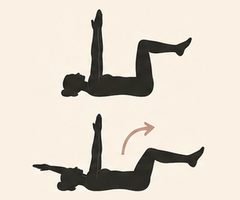
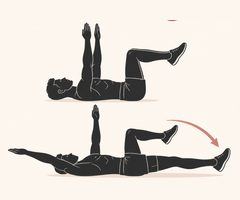
Øvelsesbank: nye bilder for beinpress, leg curl, pull-ups og dead bug
Claude-Session: https://claude.ai/code/session_01AskgJg6Kkd8mdVzJkkPLJh

Changed region(s): [[0.0292, 0.03, 0.9625, 0.96], [0.7, 0.87, 0.7292, 0.9], [0.7, 0.09, 0.7292, 0.12]]

diff --git a/ovelsesbank.html b/ovelsesbank.html
@@ -385,6 +385,8 @@
   .sources { margin: 0; padding-left: 1.1rem; font-size: 0.9rem; }
   .sources li { margin: 0 0 0.6rem; }
 
+  .card a:not([class]) { color: var(--accent-dark); font-weight: 600; }
+
 
   .bank-intro ol { margin: 0 0 0.75rem; padding-left: 1.25rem; }
   .bank-intro ol li { margin: 0 0 0.5rem; }
@@ -395,7 +397,9 @@
   .group .about-body > p.muscles { margin: 0 0 0.75rem; color: var(--muted); font-size: 0.92rem; }
   .group .exercises { margin-bottom: 0; }
 
-  .exercises li.no-img { grid-template-columns: 1fr; padding-left: 0.9rem; }
+  .exercises li.no-img,
+  .bank[data-show="gym"] .exercises li.no-img-gym,
+  .bank[data-show="home"] .exercises li.no-img-home { grid-template-columns: 1fr; padding-left: 0.9rem; }
 
   .bank[data-show="gym"] .v-home,
   .bank[data-show="home"] .v-gym { display: none; }
@@ -467,9 +471,9 @@
         <div class="about-body">
           <p class="muscles">Forside lår og sete</p>
           <ul class="exercises">
-          <li><a class="thumb-link" href="images/ukeplan-kneboy-stor.jpg" aria-label="Se større bilde: Knebøy"><img class="thumb v-gym" src="images/ukeplan-kneboy-senter.jpg" width="120" height="100" loading="lazy" alt="Knebøy på treningssenter: illustrasjon med silhuetter."><img class="thumb v-home" src="images/ukeplan-kneboy-hjemme.jpg" width="120" height="100" loading="lazy" alt="Knebøy hjemme: illustrasjon med silhuetter."></a><span class="v-gym">Knebøy med stang<span class="how">Stanga på øvre del av ryggen. Sett deg ned og litt bakover, knærne følger tærne.</span></span><span class="v-home">Knebøy med manual eller kettlebell<span class="how">Hold vekten foran brystet (goblet-knebøy), gjerne ned mot en stol.</span></span></li>
-          <li><a class="thumb-link" href="images/ukeplan-mann-beinpress-stor.jpg" aria-label="Se større bilde: Beinpress"><img class="thumb v-gym" src="images/ukeplan-mann-beinpress-senter.jpg" width="120" height="100" loading="lazy" alt="Beinpress på treningssenter: illustrasjon med silhuetter."><img class="thumb v-home" src="images/ukeplan-mann-beinpress-hjemme.jpg" width="120" height="100" loading="lazy" alt="Beinpress hjemme: illustrasjon med silhuetter."></a><span class="v-gym">Beinpress<span class="how">Senk kontrollert til knærne er rundt 90 grader, og press opp uten å låse knærne.</span></span><span class="v-home">Knebøy til stol på ett bein<span class="how">Sett deg rolig ned på stolen og reis deg på ett bein. Start på to bein med en kettlebell, som på bildet.</span></span></li>
-          <li><a class="thumb-link" href="images/ukeplan-enbens-stor.jpg" aria-label="Se større bilde: Utfall og step-up"><img class="thumb v-gym" src="images/ukeplan-enbens-senter.jpg" width="120" height="100" loading="lazy" alt="Utfall og step-up på treningssenter: illustrasjon med silhuetter."><img class="thumb v-home" src="images/ukeplan-enbens-hjemme.jpg" width="120" height="100" loading="lazy" alt="Utfall og step-up hjemme: illustrasjon med silhuetter."></a><span class="v-gym">Utfall med manualer<span class="how">Ta et steg fram eller bak, og senk bakre kne rolig mot gulvet.</span></span><span class="v-home">Step-up eller utfall bakover<span class="how">På et trappetrinn eller en stødig stol, gjerne med manualer.</span></span></li>
+          <li><a class="thumb-link v-gym" href="images/ukeplan-kneboy-stor.jpg" aria-label="Se større bilde: Knebøy på treningssenter"><img class="thumb" src="images/ukeplan-kneboy-senter.jpg" width="120" height="100" loading="lazy" alt="Knebøy på treningssenter: illustrasjon med silhuetter."></a><a class="thumb-link v-home" href="images/ukeplan-kneboy-stor.jpg" aria-label="Se større bilde: Knebøy hjemme"><img class="thumb" src="images/ukeplan-kneboy-hjemme.jpg" width="120" height="100" loading="lazy" alt="Knebøy hjemme: illustrasjon med silhuetter."></a><span class="v-gym">Knebøy med stang<span class="how">Stanga på øvre del av ryggen. Sett deg ned og litt bakover, knærne følger tærne.</span></span><span class="v-home">Knebøy med manual eller kettlebell<span class="how">Hold vekten foran brystet (goblet-knebøy), gjerne ned mot en stol.</span></span></li>
+          <li><a class="thumb-link v-gym" href="images/bank-beinpress-stor.jpg" aria-label="Se større bilde: Beinpress på treningssenter"><img class="thumb" src="images/bank-beinpress.jpg" width="120" height="100" loading="lazy" alt="Beinpress på treningssenter: illustrasjon med silhuetter."></a><a class="thumb-link v-home" href="images/ukeplan-mann-beinpress-stor.jpg" aria-label="Se større bilde: Beinpress hjemme"><img class="thumb" src="images/ukeplan-mann-beinpress-hjemme.jpg" width="120" height="100" loading="lazy" alt="Beinpress hjemme: illustrasjon med silhuetter."></a><span class="v-gym">Beinpress<span class="how">Senk kontrollert til knærne er rundt 90 grader, og press opp uten å låse knærne.</span></span><span class="v-home">Knebøy til stol på ett bein<span class="how">Sett deg rolig ned på stolen og reis deg på ett bein. Start på to bein med en kettlebell, som på bildet.</span></span></li>
+          <li><a class="thumb-link v-gym" href="images/ukeplan-enbens-stor.jpg" aria-label="Se større bilde: Utfall og step-up på treningssenter"><img class="thumb" src="images/ukeplan-enbens-senter.jpg" width="120" height="100" loading="lazy" alt="Utfall og step-up på treningssenter: illustrasjon med silhuetter."></a><a class="thumb-link v-home" href="images/ukeplan-enbens-stor.jpg" aria-label="Se større bilde: Utfall og step-up hjemme"><img class="thumb" src="images/ukeplan-enbens-hjemme.jpg" width="120" height="100" loading="lazy" alt="Utfall og step-up hjemme: illustrasjon med silhuetter."></a><span class="v-gym">Utfall med manualer<span class="how">Ta et steg fram eller bak, og senk bakre kne rolig mot gulvet.</span></span><span class="v-home">Step-up eller utfall bakover<span class="how">På et trappetrinn eller en stødig stol, gjerne med manualer.</span></span></li>
           <li class="no-img"><span class="v-gym">Bulgarsk utfall<span class="how">Bakre fot på en benk, senk deg rett ned. Krevende, og gir mye effekt med lette vekter.</span></span><span class="v-home">Bulgarsk utfall<span class="how">Bakre fot på en stol, senk deg rett ned. Krevende, og gir mye effekt med lette vekter.</span></span></li>
           </ul>
         </div>
@@ -479,9 +483,9 @@
         <div class="about-body">
           <p class="muscles">Bakside lår og sete</p>
           <ul class="exercises">
-          <li><a class="thumb-link" href="images/ukeplan-markloft-stor.jpg" aria-label="Se større bilde: Rumensk markløft"><img class="thumb v-gym" src="images/ukeplan-markloft-senter.jpg" width="120" height="100" loading="lazy" alt="Rumensk markløft på treningssenter: illustrasjon med silhuetter."><img class="thumb v-home" src="images/ukeplan-markloft-hjemme.jpg" width="120" height="100" loading="lazy" alt="Rumensk markløft hjemme: illustrasjon med silhuetter."></a><span class="v-gym">Rumensk markløft med stang<span class="how">Skyv hoftene bakover med nesten strake bein og rett rygg. Hold stanga tett inntil beina.</span></span><span class="v-home">Rumensk markløft med manualer<span class="how">For mer: markløft på ett bein.</span></span></li>
-          <li><a class="thumb-link" href="images/ukeplan-hipthrust-stor.jpg" aria-label="Se større bilde: Hip thrust og seteløft"><img class="thumb v-gym" src="images/ukeplan-hipthrust-senter.jpg" width="120" height="100" loading="lazy" alt="Hip thrust og seteløft på treningssenter: illustrasjon med silhuetter."><img class="thumb v-home" src="images/ukeplan-hipthrust-hjemme.jpg" width="120" height="100" loading="lazy" alt="Hip thrust og seteløft hjemme: illustrasjon med silhuetter."></a><span class="v-gym">Hip thrust<span class="how">Ryggen mot en benk og stang over hoftene. Klem setet på toppen.</span></span><span class="v-home">Seteløft<span class="how">På gulvet eller med skuldrene mot sofaen, gjerne med en manual på hoftene.</span></span></li>
-          <li class="no-img"><span class="v-gym">Leg curl i apparat<span class="how">Bøy knærne kontrollert, og senk sakte.</span></span><span class="v-home">Leg curl på håndkle<span class="how">Ligg på ryggen med hælene på et håndkle på glatt gulv. Løft hoftene og dra hælene inn mot setet.</span></span></li>
+          <li><a class="thumb-link v-gym" href="images/ukeplan-markloft-stor.jpg" aria-label="Se større bilde: Rumensk markløft på treningssenter"><img class="thumb" src="images/ukeplan-markloft-senter.jpg" width="120" height="100" loading="lazy" alt="Rumensk markløft på treningssenter: illustrasjon med silhuetter."></a><a class="thumb-link v-home" href="images/ukeplan-markloft-stor.jpg" aria-label="Se større bilde: Rumensk markløft hjemme"><img class="thumb" src="images/ukeplan-markloft-hjemme.jpg" width="120" height="100" loading="lazy" alt="Rumensk markløft hjemme: illustrasjon med silhuetter."></a><span class="v-gym">Rumensk markløft med stang<span class="how">Skyv hoftene bakover med nesten strake bein og rett rygg. Hold stanga tett inntil beina.</span></span><span class="v-home">Rumensk markløft med manualer<span class="how">For mer: markløft på ett bein.</span></span></li>
+          <li><a class="thumb-link v-gym" href="images/ukeplan-hipthrust-stor.jpg" aria-label="Se større bilde: Hip thrust og seteløft på treningssenter"><img class="thumb" src="images/ukeplan-hipthrust-senter.jpg" width="120" height="100" loading="lazy" alt="Hip thrust og seteløft på treningssenter: illustrasjon med silhuetter."></a><a class="thumb-link v-home" href="images/ukeplan-hipthrust-stor.jpg" aria-label="Se større bilde: Hip thrust og seteløft hjemme"><img class="thumb" src="images/ukeplan-hipthrust-hjemme.jpg" width="120" height="100" loading="lazy" alt="Hip thrust og seteløft hjemme: illustrasjon med silhuetter."></a><span class="v-gym">Hip thrust<span class="how">Ryggen mot en benk og stang over hoftene. Klem setet på toppen.</span></span><span class="v-home">Seteløft<span class="how">På gulvet eller med skuldrene mot sofaen, gjerne med en manual på hoftene.</span></span></li>
+          <li class="no-img-home"><a class="thumb-link v-gym" href="images/bank-legcurl-stor.jpg" aria-label="Se større bilde: Leg curl på treningssenter"><img class="thumb" src="images/bank-legcurl.jpg" width="120" height="100" loading="lazy" alt="Leg curl på treningssenter: illustrasjon med silhuetter."></a><span class="v-gym">Leg curl i apparat<span class="how">Bøy knærne kontrollert, og senk sakte.</span></span><span class="v-home">Leg curl på håndkle<span class="how">Ligg på ryggen med hælene på et håndkle på glatt gulv. Løft hoftene og dra hælene inn mot setet.</span></span></li>
           </ul>
         </div>
       </details>
@@ -490,7 +494,7 @@
         <div class="about-body">
           <p class="muscles">Bryst, forside skuldre og bakside armer</p>
           <ul class="exercises">
-          <li><a class="thumb-link" href="images/ukeplan-bryst-stor.jpg" aria-label="Se større bilde: Brystpress og push-ups"><img class="thumb v-gym" src="images/ukeplan-bryst-senter.jpg" width="120" height="100" loading="lazy" alt="Brystpress og push-ups på treningssenter: illustrasjon med silhuetter."><img class="thumb v-home" src="images/ukeplan-bryst-hjemme.jpg" width="120" height="100" loading="lazy" alt="Brystpress og push-ups hjemme: illustrasjon med silhuetter."></a><span class="v-gym">Benkpress eller brystpress med manualer<span class="how">Senk kontrollert mot brystet, med albuene litt inn mot kroppen.</span></span><span class="v-home">Push-ups<span class="how">Mot kjøkkenbenken, på knærne eller på gulvet. Eller brystpress med manualer liggende på gulvet.</span></span></li>
+          <li><a class="thumb-link v-gym" href="images/ukeplan-bryst-stor.jpg" aria-label="Se større bilde: Brystpress og push-ups på treningssenter"><img class="thumb" src="images/ukeplan-bryst-senter.jpg" width="120" height="100" loading="lazy" alt="Brystpress og push-ups på treningssenter: illustrasjon med silhuetter."></a><a class="thumb-link v-home" href="images/ukeplan-bryst-stor.jpg" aria-label="Se større bilde: Brystpress og push-ups hjemme"><img class="thumb" src="images/ukeplan-bryst-hjemme.jpg" width="120" height="100" loading="lazy" alt="Brystpress og push-ups hjemme: illustrasjon med silhuetter."></a><span class="v-gym">Benkpress eller brystpress med manualer<span class="how">Senk kontrollert mot brystet, med albuene litt inn mot kroppen.</span></span><span class="v-home">Push-ups<span class="how">Mot kjøkkenbenken, på knærne eller på gulvet. Eller brystpress med manualer liggende på gulvet.</span></span></li>
           <li class="no-img"><span class="v-gym">Skrå brystpress med manualer<span class="how">Benken på 30–45 grader.</span></span><span class="v-home">Push-ups med føttene på en stol<span class="how">En tyngre variant når vanlige push-ups blir lette.</span></span></li>
           </ul>
         </div>
@@ -500,7 +504,7 @@
         <div class="about-body">
           <p class="muscles">Skuldre</p>
           <ul class="exercises">
-          <li><a class="thumb-link" href="images/ukeplan-skulderpress-stor.jpg" aria-label="Se større bilde: Skulderpress"><img class="thumb v-gym" src="images/ukeplan-skulderpress-senter.jpg" width="120" height="100" loading="lazy" alt="Skulderpress på treningssenter: illustrasjon med silhuetter."><img class="thumb v-home" src="images/ukeplan-skulderpress-hjemme.jpg" width="120" height="100" loading="lazy" alt="Skulderpress hjemme: illustrasjon med silhuetter."></a><span class="v-gym">Skulderpress med manualer<span class="how">Sittende eller stående. Hold magen lett aktiv og unngå å svaie i korsryggen.</span></span><span class="v-home">Skulderpress med manualer eller strikk<span class="how">Stående eller sittende.</span></span></li>
+          <li><a class="thumb-link v-gym" href="images/ukeplan-skulderpress-stor.jpg" aria-label="Se større bilde: Skulderpress på treningssenter"><img class="thumb" src="images/ukeplan-skulderpress-senter.jpg" width="120" height="100" loading="lazy" alt="Skulderpress på treningssenter: illustrasjon med silhuetter."></a><a class="thumb-link v-home" href="images/ukeplan-skulderpress-stor.jpg" aria-label="Se større bilde: Skulderpress hjemme"><img class="thumb" src="images/ukeplan-skulderpress-hjemme.jpg" width="120" height="100" loading="lazy" alt="Skulderpress hjemme: illustrasjon med silhuetter."></a><span class="v-gym">Skulderpress med manualer<span class="how">Sittende eller stående. Hold magen lett aktiv og unngå å svaie i korsryggen.</span></span><span class="v-home">Skulderpress med manualer eller strikk<span class="how">Stående eller sittende.</span></span></li>
           <li class="no-img"><span class="v-gym">Sidehev<span class="how">Med lette manualer eller i kabel. Løft armene ut til siden til skulderhøyde.</span></span><span class="v-home">Sidehev<span class="how">Med lette manualer eller strikk. Løft armene ut til siden til skulderhøyde.</span></span></li>
           </ul>
         </div>
@@ -510,7 +514,7 @@
         <div class="about-body">
           <p class="muscles">Øvre del av ryggen</p>
           <ul class="exercises">
-          <li><a class="thumb-link" href="images/ukeplan-roing-stor.jpg" aria-label="Se større bilde: Roing"><img class="thumb v-gym" src="images/ukeplan-roing-senter.jpg" width="120" height="100" loading="lazy" alt="Roing på treningssenter: illustrasjon med silhuetter."><img class="thumb v-home" src="images/ukeplan-roing-hjemme.jpg" width="120" height="100" loading="lazy" alt="Roing hjemme: illustrasjon med silhuetter."></a><span class="v-gym">Sittende roing i kabel<span class="how">Trekk albuene bakover og skulderbladene mot hverandre.</span></span><span class="v-home">Roing med manual<span class="how">Én arm av gangen med støtte på en stol.</span></span></li>
+          <li><a class="thumb-link v-gym" href="images/ukeplan-roing-stor.jpg" aria-label="Se større bilde: Roing på treningssenter"><img class="thumb" src="images/ukeplan-roing-senter.jpg" width="120" height="100" loading="lazy" alt="Roing på treningssenter: illustrasjon med silhuetter."></a><a class="thumb-link v-home" href="images/ukeplan-roing-stor.jpg" aria-label="Se større bilde: Roing hjemme"><img class="thumb" src="images/ukeplan-roing-hjemme.jpg" width="120" height="100" loading="lazy" alt="Roing hjemme: illustrasjon med silhuetter."></a><span class="v-gym">Sittende roing i kabel<span class="how">Trekk albuene bakover og skulderbladene mot hverandre.</span></span><span class="v-home">Roing med manual<span class="how">Én arm av gangen med støtte på en stol.</span></span></li>
           <li class="no-img"><span class="v-gym">Foroverbøyd roing med stang<span class="how">Bøy i hoftene med rett rygg, og trekk stanga mot navlen.</span></span><span class="v-home">Roing med strikk<span class="how">Strikket festet i døra eller rundt føttene.</span></span></li>
           </ul>
         </div>
@@ -520,8 +524,8 @@
         <div class="about-body">
           <p class="muscles">Rygg og forside armer</p>
           <ul class="exercises">
-          <li><a class="thumb-link" href="images/ukeplan-nedtrekk-stor.jpg" aria-label="Se større bilde: Nedtrekk"><img class="thumb v-gym" src="images/ukeplan-nedtrekk-senter.jpg" width="120" height="100" loading="lazy" alt="Nedtrekk på treningssenter: illustrasjon med silhuetter."><img class="thumb v-home" src="images/ukeplan-nedtrekk-hjemme.jpg" width="120" height="100" loading="lazy" alt="Nedtrekk hjemme: illustrasjon med silhuetter."></a><span class="v-gym">Nedtrekk<span class="how">Trekk stanga ned mot øvre del av brystet.</span></span><span class="v-home">Nedtrekk med strikk<span class="how">Strikket festet øverst i døra.</span></span></li>
-          <li><a class="thumb-link" href="images/ukeplan-mann-pullups-stor.jpg" aria-label="Se større bilde: Pull-ups"><img class="thumb v-gym" src="images/ukeplan-mann-pullups-senter.jpg" width="120" height="100" loading="lazy" alt="Pull-ups på treningssenter: illustrasjon med silhuetter."><img class="thumb v-home" src="images/ukeplan-mann-pullups-hjemme.jpg" width="120" height="100" loading="lazy" alt="Pull-ups hjemme: illustrasjon med silhuetter."></a><span class="v-gym">Pull-ups<span class="how">Med strikk eller i apparat for hjelp hvis det er for tungt.</span></span><span class="v-home">Pull-ups i dørstang<span class="how">Start med å henge, eller senk deg sakte ned fra toppen.</span></span></li>
+          <li><a class="thumb-link v-gym" href="images/ukeplan-nedtrekk-stor.jpg" aria-label="Se større bilde: Nedtrekk på treningssenter"><img class="thumb" src="images/ukeplan-nedtrekk-senter.jpg" width="120" height="100" loading="lazy" alt="Nedtrekk på treningssenter: illustrasjon med silhuetter."></a><a class="thumb-link v-home" href="images/ukeplan-nedtrekk-stor.jpg" aria-label="Se større bilde: Nedtrekk hjemme"><img class="thumb" src="images/ukeplan-nedtrekk-hjemme.jpg" width="120" height="100" loading="lazy" alt="Nedtrekk hjemme: illustrasjon med silhuetter."></a><span class="v-gym">Nedtrekk<span class="how">Trekk stanga ned mot øvre del av brystet.</span></span><span class="v-home">Nedtrekk med strikk<span class="how">Strikket festet øverst i døra.</span></span></li>
+          <li><a class="thumb-link v-gym" href="images/bank-pullups-stor.jpg" aria-label="Se større bilde: Pull-ups på treningssenter"><img class="thumb" src="images/bank-pullups.jpg" width="120" height="100" loading="lazy" alt="Pull-ups på treningssenter: illustrasjon med silhuetter."></a><a class="thumb-link v-home" href="images/ukeplan-mann-pullups-stor.jpg" aria-label="Se større bilde: Pull-ups hjemme"><img class="thumb" src="images/ukeplan-mann-pullups-hjemme.jpg" width="120" height="100" loading="lazy" alt="Pull-ups hjemme: illustrasjon med silhuetter."></a><span class="v-gym">Pull-ups<span class="how">Med strikk eller i apparat for hjelp hvis det er for tungt.</span></span><span class="v-home">Pull-ups i dørstang<span class="how">Start med å henge, eller senk deg sakte ned fra toppen.</span></span></li>
           </ul>
         </div>
       </details>
@@ -530,11 +534,11 @@
         <div class="about-body">
           <p class="muscles">Mage, rygg og grep</p>
           <ul class="exercises">
-          <li><a class="thumb-link" href="images/ukeplan-planke-stor.jpg" aria-label="Se større bilde: Planke"><img class="thumb v-gym" src="images/ukeplan-planke-senter.jpg" width="120" height="100" loading="lazy" alt="Planke på treningssenter: illustrasjon med silhuetter."><img class="thumb v-home" src="images/ukeplan-planke-hjemme.jpg" width="120" height="100" loading="lazy" alt="Planke hjemme: illustrasjon med silhuetter."></a><span>Planke<span class="how">På knærne eller med strake bein. Rett linje fra hode til knær eller hæler.</span></span></li>
-          <li><a class="thumb-link" href="images/ukeplan-sideplanke-stor.jpg" aria-label="Se større bilde: Sideplanke"><img class="thumb v-gym" src="images/ukeplan-sideplanke-senter.jpg" width="120" height="100" loading="lazy" alt="Sideplanke på treningssenter: illustrasjon med silhuetter."><img class="thumb v-home" src="images/ukeplan-sideplanke-hjemme.jpg" width="120" height="100" loading="lazy" alt="Sideplanke hjemme: illustrasjon med silhuetter."></a><span>Sideplanke<span class="how">Start på knærne. For mer: strake bein.</span></span></li>
-          <li><a class="thumb-link" href="images/styrke-15-5-deadbug.jpg" aria-label="Se større bilde: Dead bug"><img class="thumb" src="images/bank-deadbug.jpg" width="120" height="100" loading="lazy" alt="Dead bug: illustrasjon med silhuetter."></a><span>Dead bug<span class="how">Ligg på ryggen og senk motsatt arm og bein rolig. Korsryggen skal ligge mot gulvet.</span></span></li>
+          <li><a class="thumb-link v-gym" href="images/ukeplan-planke-stor.jpg" aria-label="Se større bilde: Planke på treningssenter"><img class="thumb" src="images/ukeplan-planke-senter.jpg" width="120" height="100" loading="lazy" alt="Planke på treningssenter: illustrasjon med silhuetter."></a><a class="thumb-link v-home" href="images/ukeplan-planke-stor.jpg" aria-label="Se større bilde: Planke hjemme"><img class="thumb" src="images/ukeplan-planke-hjemme.jpg" width="120" height="100" loading="lazy" alt="Planke hjemme: illustrasjon med silhuetter."></a><span>Planke<span class="how">På knærne eller med strake bein. Rett linje fra hode til knær eller hæler.</span></span></li>
+          <li><a class="thumb-link v-gym" href="images/ukeplan-sideplanke-stor.jpg" aria-label="Se større bilde: Sideplanke på treningssenter"><img class="thumb" src="images/ukeplan-sideplanke-senter.jpg" width="120" height="100" loading="lazy" alt="Sideplanke på treningssenter: illustrasjon med silhuetter."></a><a class="thumb-link v-home" href="images/ukeplan-sideplanke-stor.jpg" aria-label="Se større bilde: Sideplanke hjemme"><img class="thumb" src="images/ukeplan-sideplanke-hjemme.jpg" width="120" height="100" loading="lazy" alt="Sideplanke hjemme: illustrasjon med silhuetter."></a><span>Sideplanke<span class="how">Start på knærne. For mer: strake bein.</span></span></li>
+          <li><a class="thumb-link" href="images/bank-deadbug-stor.jpg" aria-label="Se større bilde: Dead bug"><img class="thumb" src="images/bank-deadbug.jpg" width="120" height="100" loading="lazy" alt="Dead bug: illustrasjon med silhuetter."></a><span>Dead bug<span class="how">Ligg på ryggen og senk motsatt arm og bein rolig. Korsryggen skal ligge mot gulvet.</span></span></li>
           <li><a class="thumb-link" href="images/styrke-mini-4-birddog.jpg" aria-label="Se større bilde: Bird dog"><img class="thumb" src="images/bank-birddog.jpg" width="120" height="100" loading="lazy" alt="Bird dog: illustrasjon med silhuetter."></a><span>Bird dog<span class="how">På alle fire: strekk ut motsatt arm og bein, og hold hoften stabil.</span></span></li>
-          <li><a class="thumb-link" href="images/ukeplan-mann-farmerswalk-stor.jpg" aria-label="Se større bilde: Farmer’s walk"><img class="thumb v-gym" src="images/ukeplan-mann-farmerswalk-senter.jpg" width="120" height="100" loading="lazy" alt="Farmer’s walk på treningssenter: illustrasjon med silhuetter."><img class="thumb v-home" src="images/ukeplan-mann-farmerswalk-hjemme.jpg" width="120" height="100" loading="lazy" alt="Farmer’s walk hjemme: illustrasjon med silhuetter."></a><span class="v-gym">Farmer’s walk<span class="how">Gå rolig med en tung manual eller kettlebell i hver hånd, med rak rygg.</span></span><span class="v-home">Farmer’s walk<span class="how">Med kettlebells, manualer eller tunge handleposer.</span></span></li>
+          <li><a class="thumb-link v-gym" href="images/ukeplan-mann-farmerswalk-stor.jpg" aria-label="Se større bilde: Farmer’s walk på treningssenter"><img class="thumb" src="images/ukeplan-mann-farmerswalk-senter.jpg" width="120" height="100" loading="lazy" alt="Farmer’s walk på treningssenter: illustrasjon med silhuetter."></a><a class="thumb-link v-home" href="images/ukeplan-mann-farmerswalk-stor.jpg" aria-label="Se større bilde: Farmer’s walk hjemme"><img class="thumb" src="images/ukeplan-mann-farmerswalk-hjemme.jpg" width="120" height="100" loading="lazy" alt="Farmer’s walk hjemme: illustrasjon med silhuetter."></a><span class="v-gym">Farmer’s walk<span class="how">Gå rolig med en tung manual eller kettlebell i hver hånd, med rak rygg.</span></span><span class="v-home">Farmer’s walk<span class="how">Med kettlebells, manualer eller tunge handleposer.</span></span></li>
           </ul>
         </div>
       </details>
